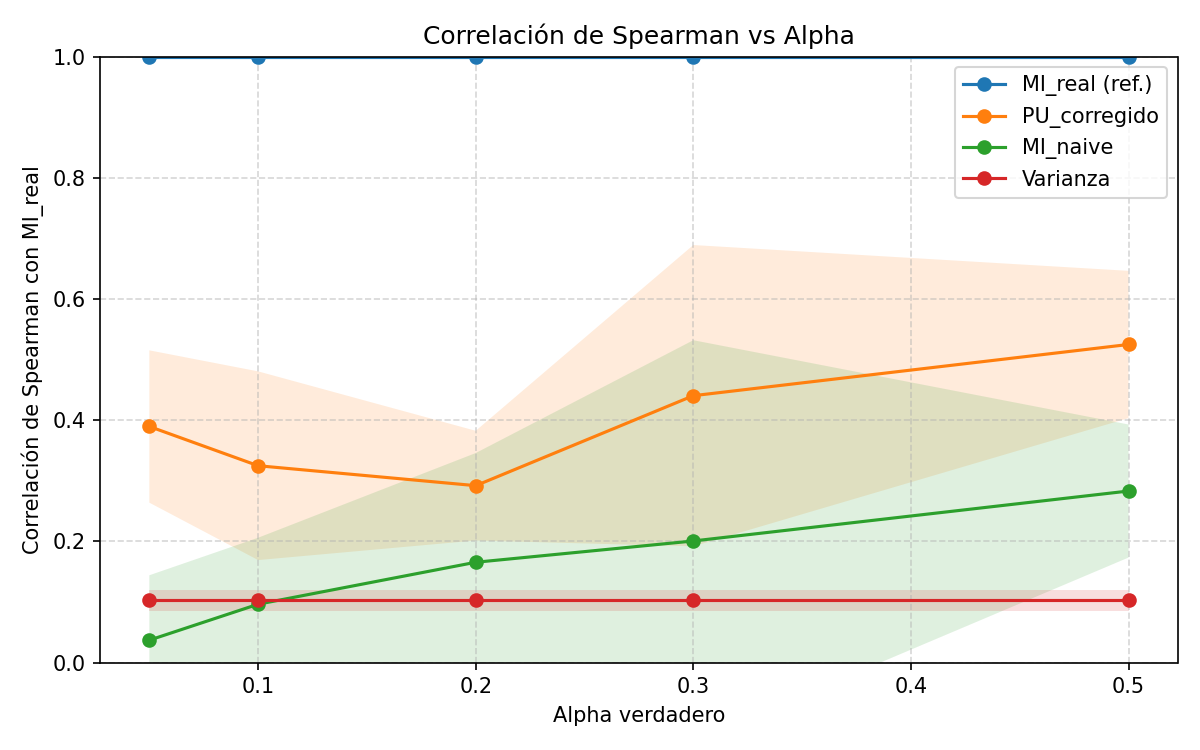
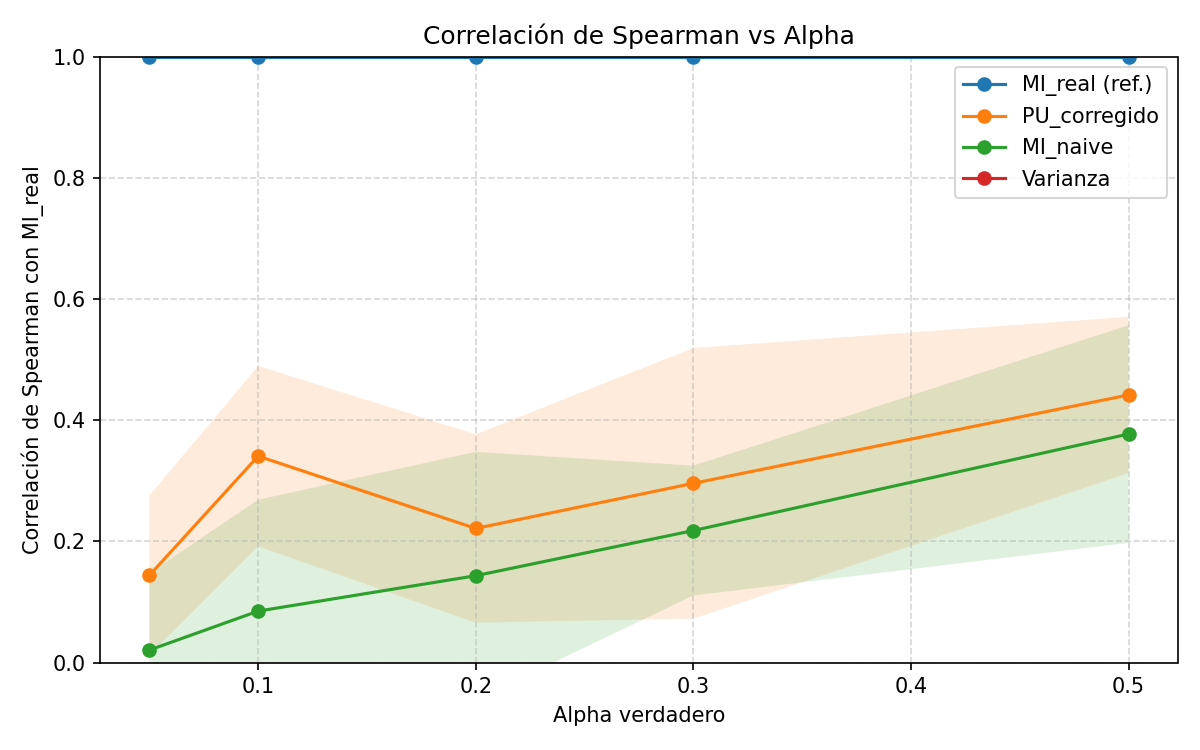
adicion de ruido

Changed region(s): [[0.1233, 0.3067, 0.9558, 0.8893]]

diff --git a/src/config.py b/src/config.py
@@ -9,7 +9,7 @@ SWEEP_ALPHAS = [0.5, 0.3, 0.2, 0.1, 0.05]
 SWEEP_SEEDS = [0, 1, 2, 3, 4]
 
 # Ruido gaussiano en features (0 = sin ruido; p.ej. 0.3 = 30% de la std por feature)
-NOISE_LEVEL = 0
+NOISE_LEVEL = 0.5
 
 # Parámetros generales
 TOP_K = 10
